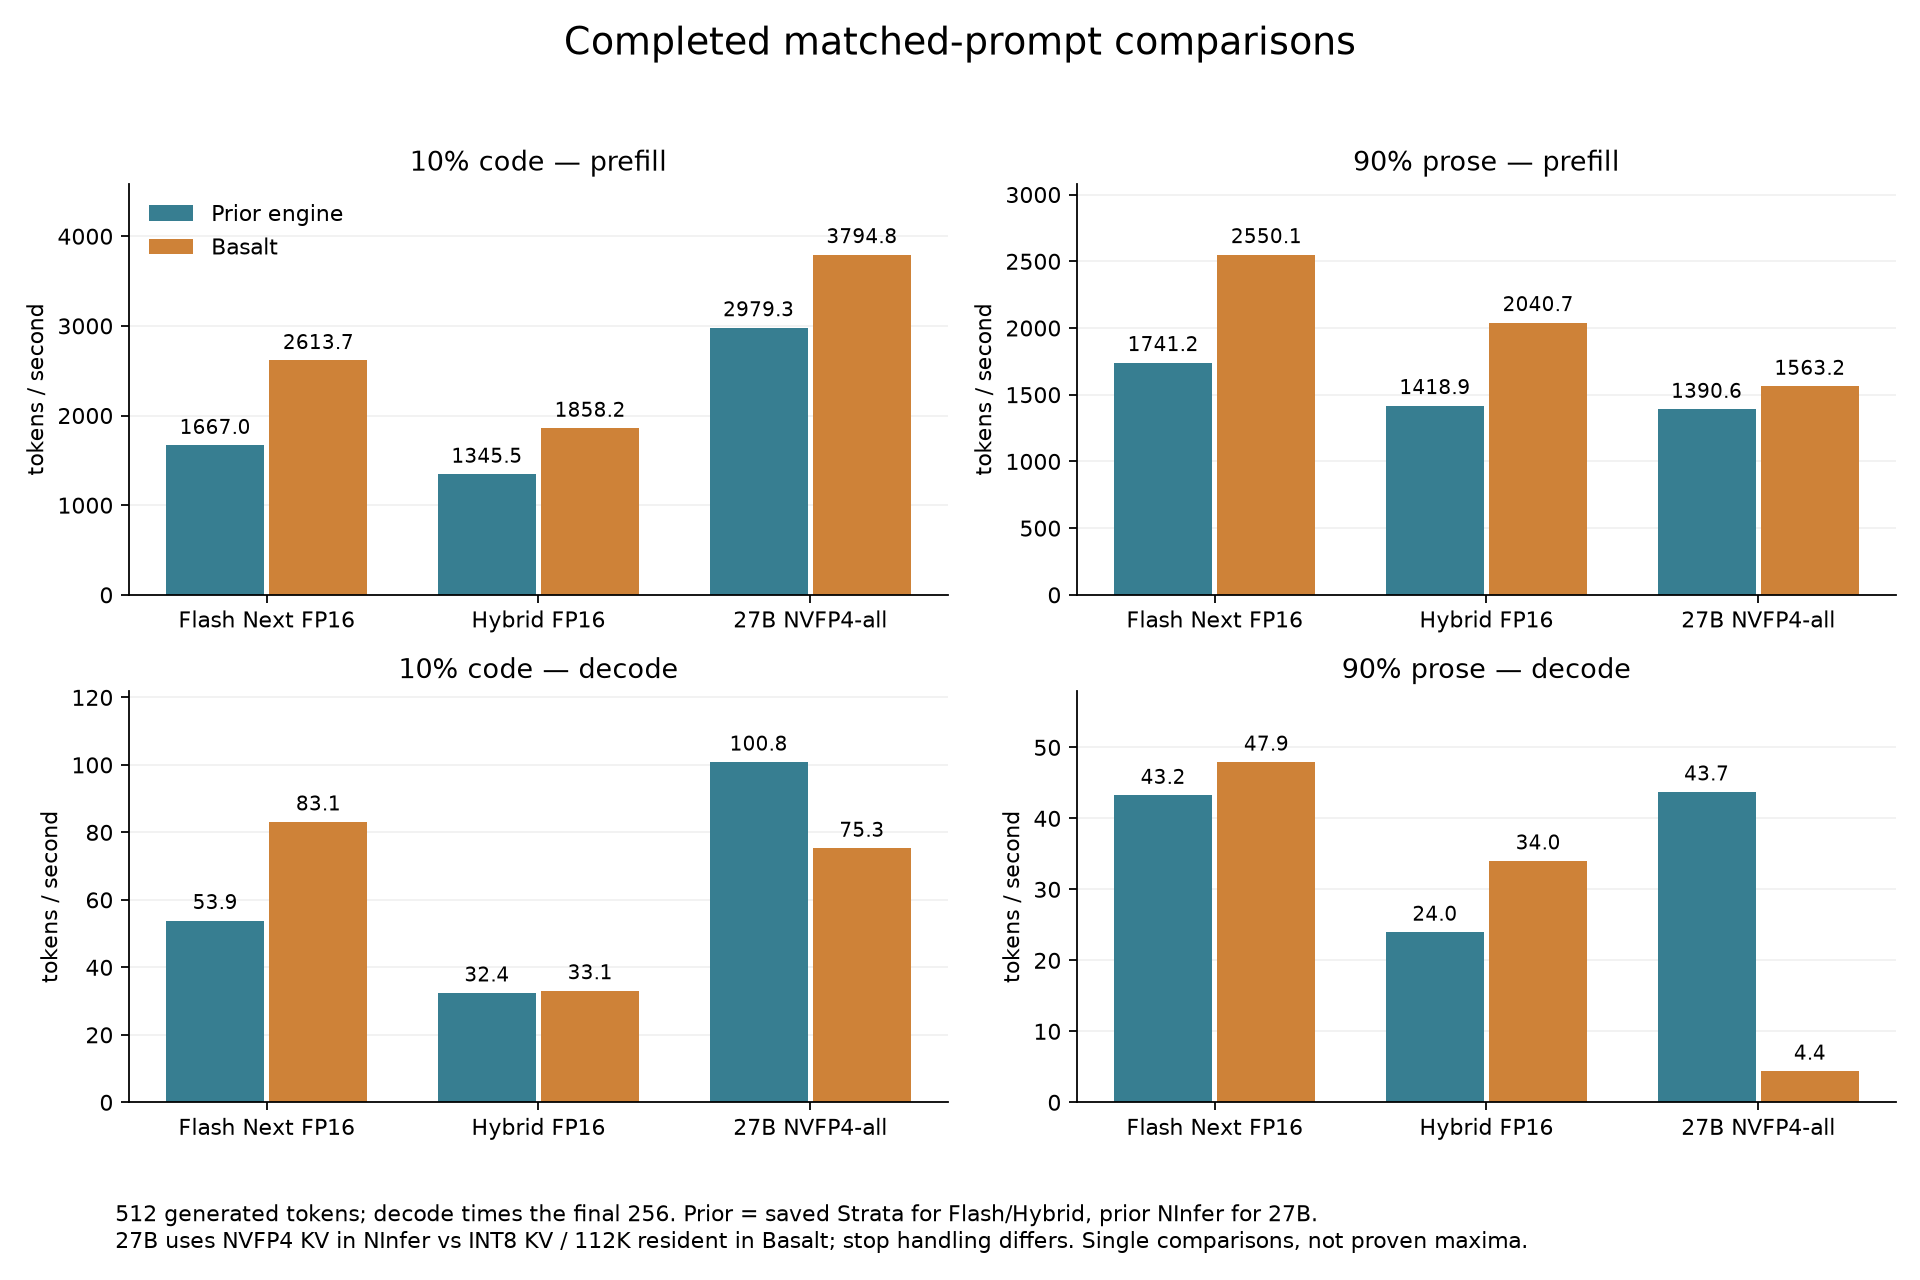
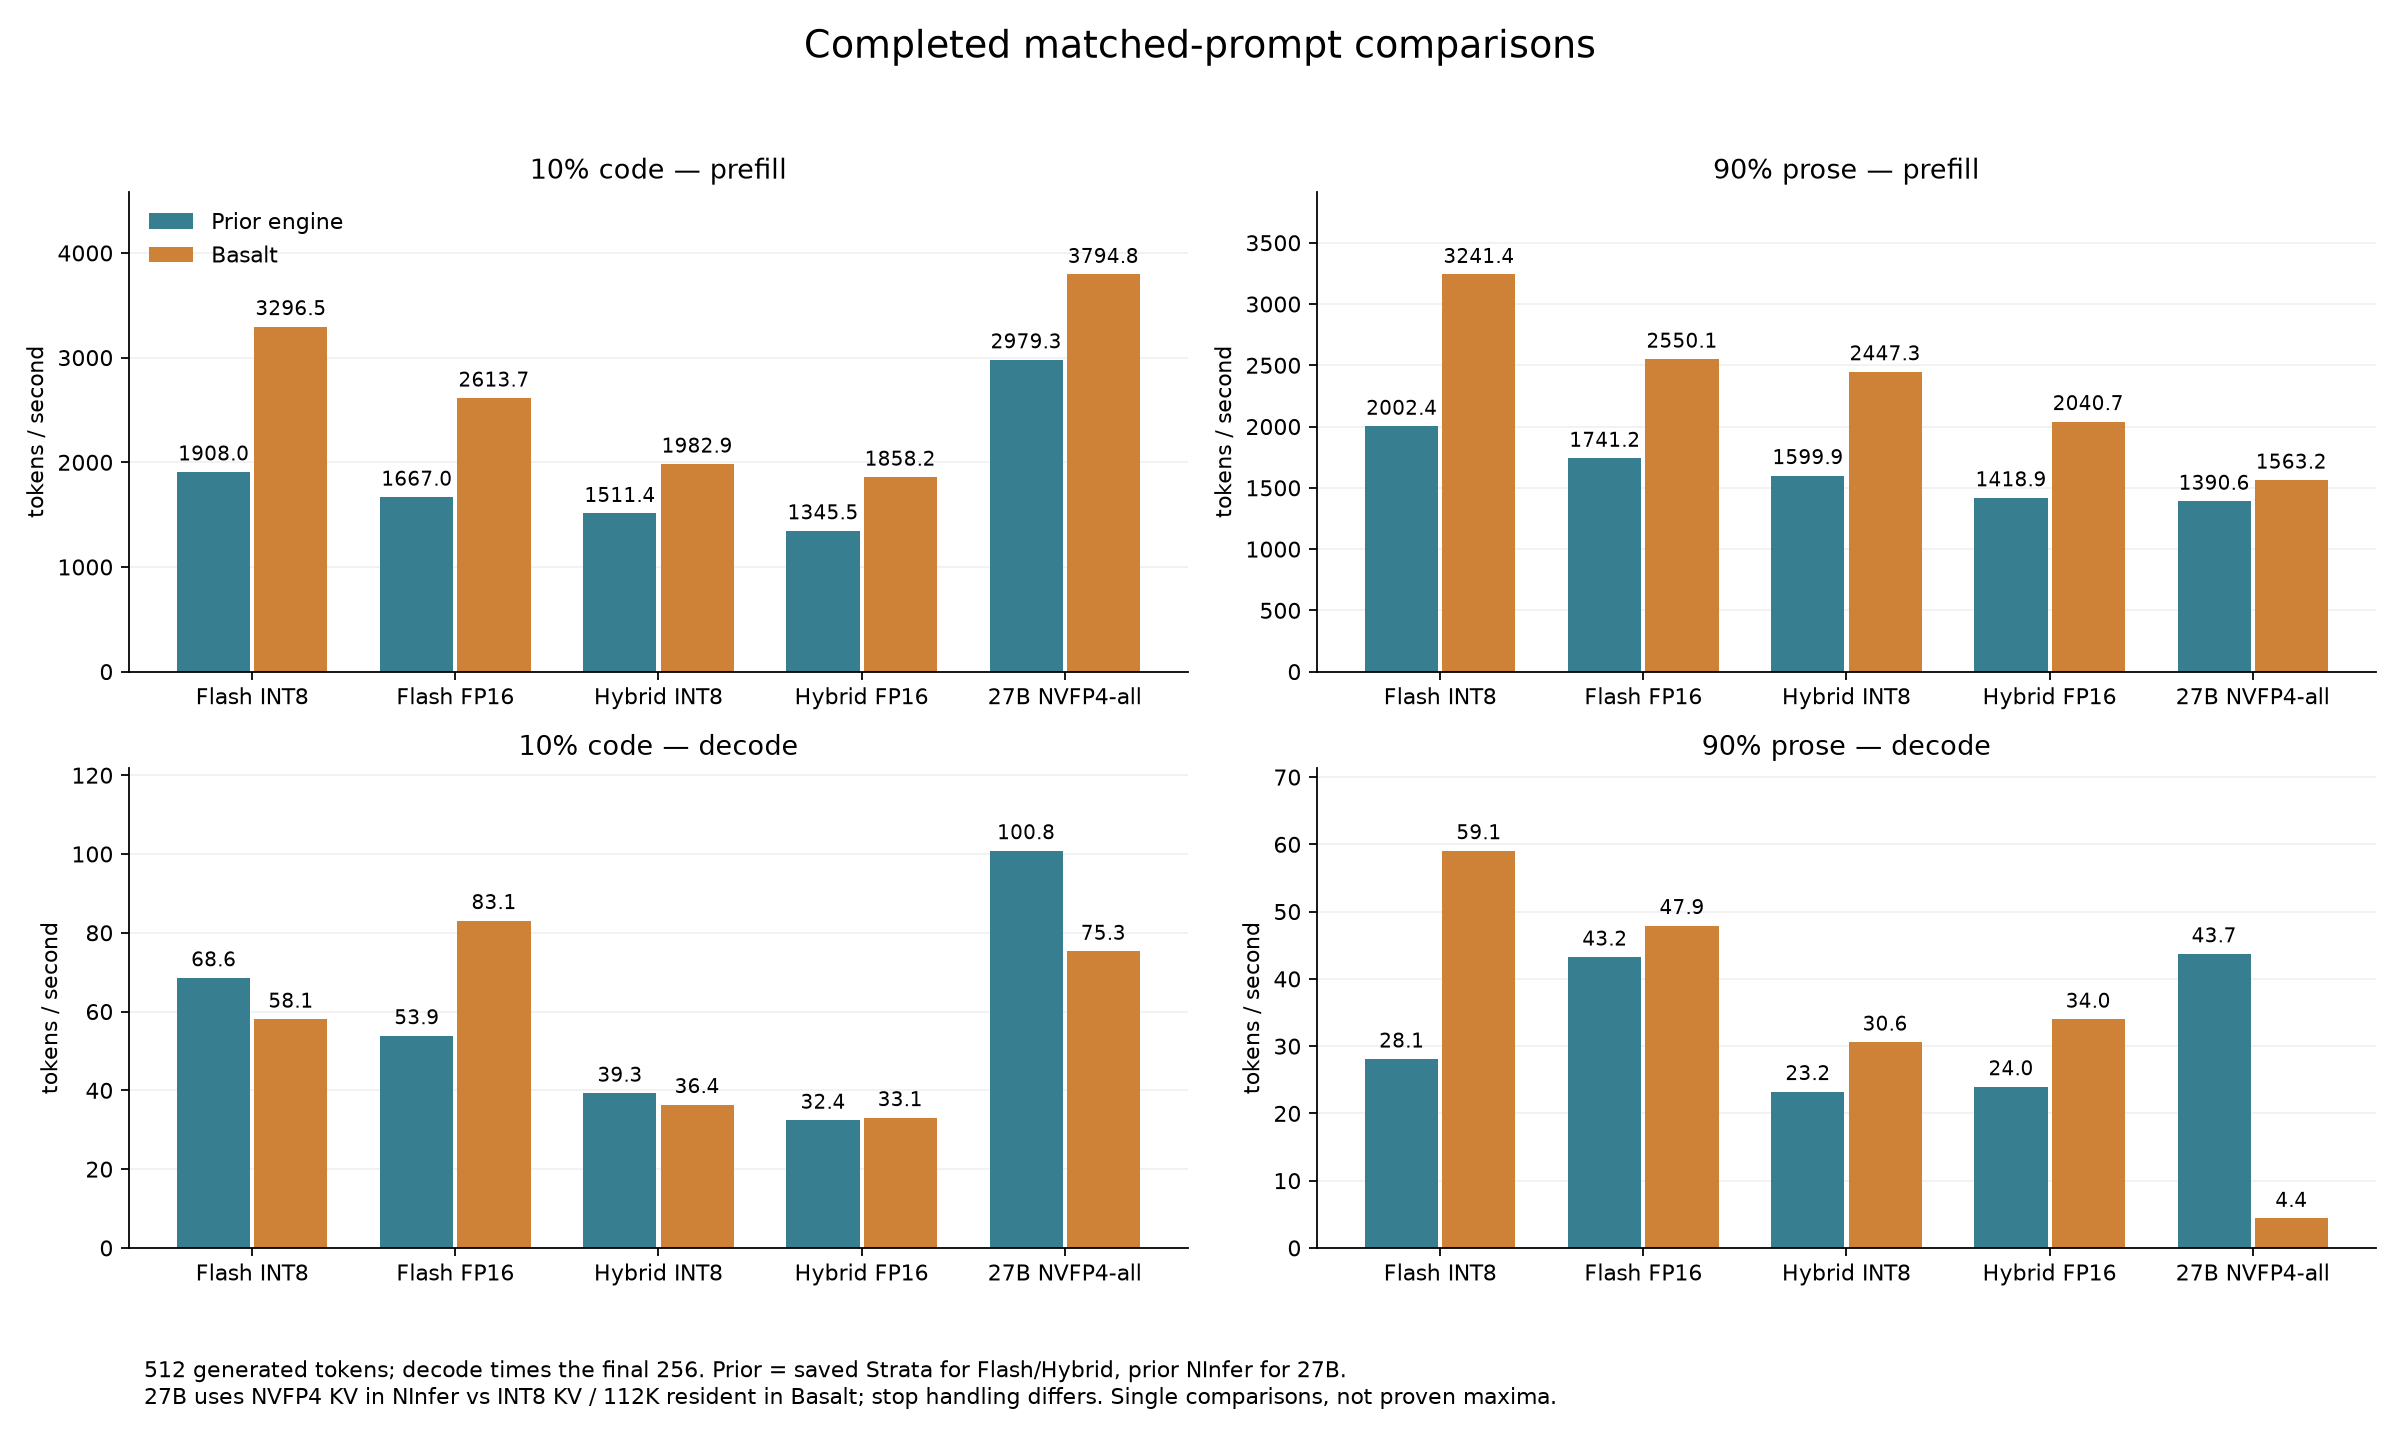
Complete supported-engine receipts and measured profile launch evidence

diff --git a/benchmarks/harness/matched_depth_chart.py b/benchmarks/harness/matched_depth_chart.py
@@ -5,18 +5,19 @@ matplotlib.use('Agg')
 import matplotlib.pyplot as plt
 r=Path('/mnt/media/scratch/dsh-inference-tuning-20261115');o=r/'outputs'
 f=json.loads((o/'flash-fp16-matched-depths.json').read_text());retry=json.loads((o/'flash-fp16-retry-depths.json').read_text());n=json.loads((o/'ninfer-matched-depths.json').read_text());b=json.loads((o/'basalt27-resident112k-depths.json').read_text())
-labels=['Flash Next FP16','Hybrid FP16','27B NVFP4-all']
-fig,axes=plt.subplots(2,2,figsize=(12,8))
+int8=json.loads((o/'flash-int8-matched-depths.json').read_text())
+labels=['Flash INT8','Flash FP16','Hybrid INT8','Hybrid FP16','27B NVFP4-all']
+fig,axes=plt.subplots(2,2,figsize=(15,9))
 for col,genre in enumerate(['code10','chat90']):
- old=[retry['flash-old-'+genre],f['hybrid-old-'+genre],n['prior-'+genre]]
- new=[f['flash-basalt-'+genre],f['hybrid-basalt-'+genre],b[genre]]
+ old=[int8['flash-old-'+genre],retry['flash-old-'+genre],int8['hybrid-old-'+genre],f['hybrid-old-'+genre],n['prior-'+genre]]
+ new=[int8['flash-basalt-'+genre],f['flash-basalt-'+genre],int8['hybrid-basalt-'+genre],f['hybrid-basalt-'+genre],b[genre]]
  assert all(v['status']=='ok'for v in old+new)
  for row,metric in enumerate(['prefill_tok_s','tail_decode_tok_s']):
   ax=axes[row,col]
   for offset,values,color,label in [(-.19,old,'#377e91','Prior engine'),(.19,new,'#ce8238','Basalt')]:
-   bars=ax.bar([i+offset for i in range(3)],[v[metric] for v in values],.36,label=label,color=color)
+   bars=ax.bar([i+offset for i in range(5)],[v[metric] for v in values],.36,label=label,color=color)
    ax.bar_label(bars,fmt='%.1f',padding=3,fontsize=9)
-  ax.set_xticks(range(3),labels);ax.set_ylabel('tokens / second');ax.set_title(('10% code'if col==0 else '90% prose')+' — '+('prefill'if row==0 else 'decode'))
+  ax.set_xticks(range(5),labels);ax.set_ylabel('tokens / second');ax.set_title(('10% code'if col==0 else '90% prose')+' — '+('prefill'if row==0 else 'decode'))
   ax.set_ylim(0,ax.get_ylim()[1]*1.15);ax.spines[['top','right']].set_visible(False);ax.grid(axis='y',alpha=.18);ax.set_axisbelow(True)
 axes[0,0].legend(frameon=False)
 fig.suptitle('Completed matched-prompt comparisons',fontsize=17)

diff --git a/benchmarks/harness/finalize_measured_profiles.py b/benchmarks/harness/finalize_measured_profiles.py
@@ -1,0 +1,17 @@
+from pathlib import Path
+import json,hashlib
+r=Path('/mnt/media/scratch/dsh-inference-tuning-20261115');summary={}
+for engine,state,names in [('basalt','dsh-basalt-fp16-measured-state',['fp16-plugin-flash','fp16-plugin-hybrid']),('ninfer','dsh-ninfer-measured-state',['ninfer1616-measured-plugin'])]:
+ path=r/'outputs'/state/'profiles.json';data=json.loads(path.read_text());profiles=data if isinstance(data,list) else data['profiles']
+ for name in names:
+  receipt=r/'validation'/name/'adapter-result.json';d=json.loads(receipt.read_text());assert d['status']=='ok' and d['arithmeticSanity'] and d['nativeCommandEvidence']['status']=='ok'
+  p=next(x for x in profiles if x['id']==d['profile'])
+  # Bind proof to the exact profile used; qualification metadata may be updated afterward.
+  for k,v in d['savedProfile'].items():
+   if k not in ['qualification','pluginValidation']:assert p.get(k)==v,(name,k)
+  proof={'status':'passed','receipt':str(receipt),'sha256':hashlib.sha256(receipt.read_bytes()).hexdigest(),'arithmeticSanity':True,'nativeControls':d['nativeCommandEvidence']['checkedControls'],'projectionModes':d.get('projectionModes',{}).get('status'),'scope':'Actual adapter GPU launch; exact measured native controls; not throughput remeasurement or general quality proof'}
+  p['pluginValidation']=proof;p['qualification']='Measured candidate; actual DSH adapter GPU launch and native controls verified; no global maximum claim'+('; generated-function checks2/3 passed' if engine=='ninfer' else '')
+  summary[p['id']]=proof
+ path.write_text(json.dumps(data,indent=2)+'\n')
+(r/'outputs/measured-profile-launch-validation.json').write_text(json.dumps(summary,indent=2)+'\n')
+print('Verified and annotated',len(summary),'profiles')

diff --git a/benchmarks/measured-inference-comparison.md b/benchmarks/measured-inference-comparison.md
@@ -45,3 +45,7 @@ Huihui INT8 latest NInfer candidate completed10% P1291.04/D68.99 vs saved P1193.
 Huihui FP8 latest NInfer completed:10% P1151.02/D65.29 vs saved P1120.76/D58.60;90% P505.69/D41.02 vs saved P451.81/D40.02. Both configurations use the same prompt fixture and depth,1024 output/final512 decode. Near-full prefill improved11.9% and decode2.5% in this comparison. This candidate meets the decode-loss constraint against the saved baseline, but is not proof of a global maximum. NVFP4 checks follow automatically.
 
 Independent receipt audit verified the recorded80% decode-first selections for Flash Basalt(7 complete candidates),hybrid Basalt(5),and Flash Strata(4). Every included receipt passed status,209715 prompt tokens,8192 output and zero prefix-reuse checks. Recomputed genre medians select the same maximum-minimum-prefill candidate retaining≥95% of each peak-decode genre median. Evidence: decode-first-receipt-audit.json; reproducible via work/audit_range_receipts.py. This verifies the recorded sweep, not a global maximum or every latest release.
+
+Huihui NVFP4 latest NInfer completed10% P1270.74/D68.32 and90% P870.11/D43.99, compared with saved10% P1201.44/D57.31 and90% P766.39/D46.21. Same configured fixture/depth,1024 output/final512 decode. Near-full prefill improved13.5%; decode fell4.8%, narrowly within the5% threshold in this single comparison. Both engine and prefill chunk differ from saved settings, so this is not an isolated release comparison. All eight latest Gyro/Huihui checks completed successfully; actual plugin validation follows.
+
+Actual DSH adapter validation passed for Flash FP16,hybrid FP16,and latest NInfer27B. Each matched the measured native executable and expected flags,appeared as the owned GPU PID,and streamed the arithmetic sanity response. Both Basalt profiles passed default/low/medium/xhigh/uncensored projection-mode routing with unchanged conversation text. Exported profile metadata now binds the validation receipt SHA256. Evidence: measured-profile-launch-validation.json. This is launch/routing validation,not a new throughput or general quality test.
